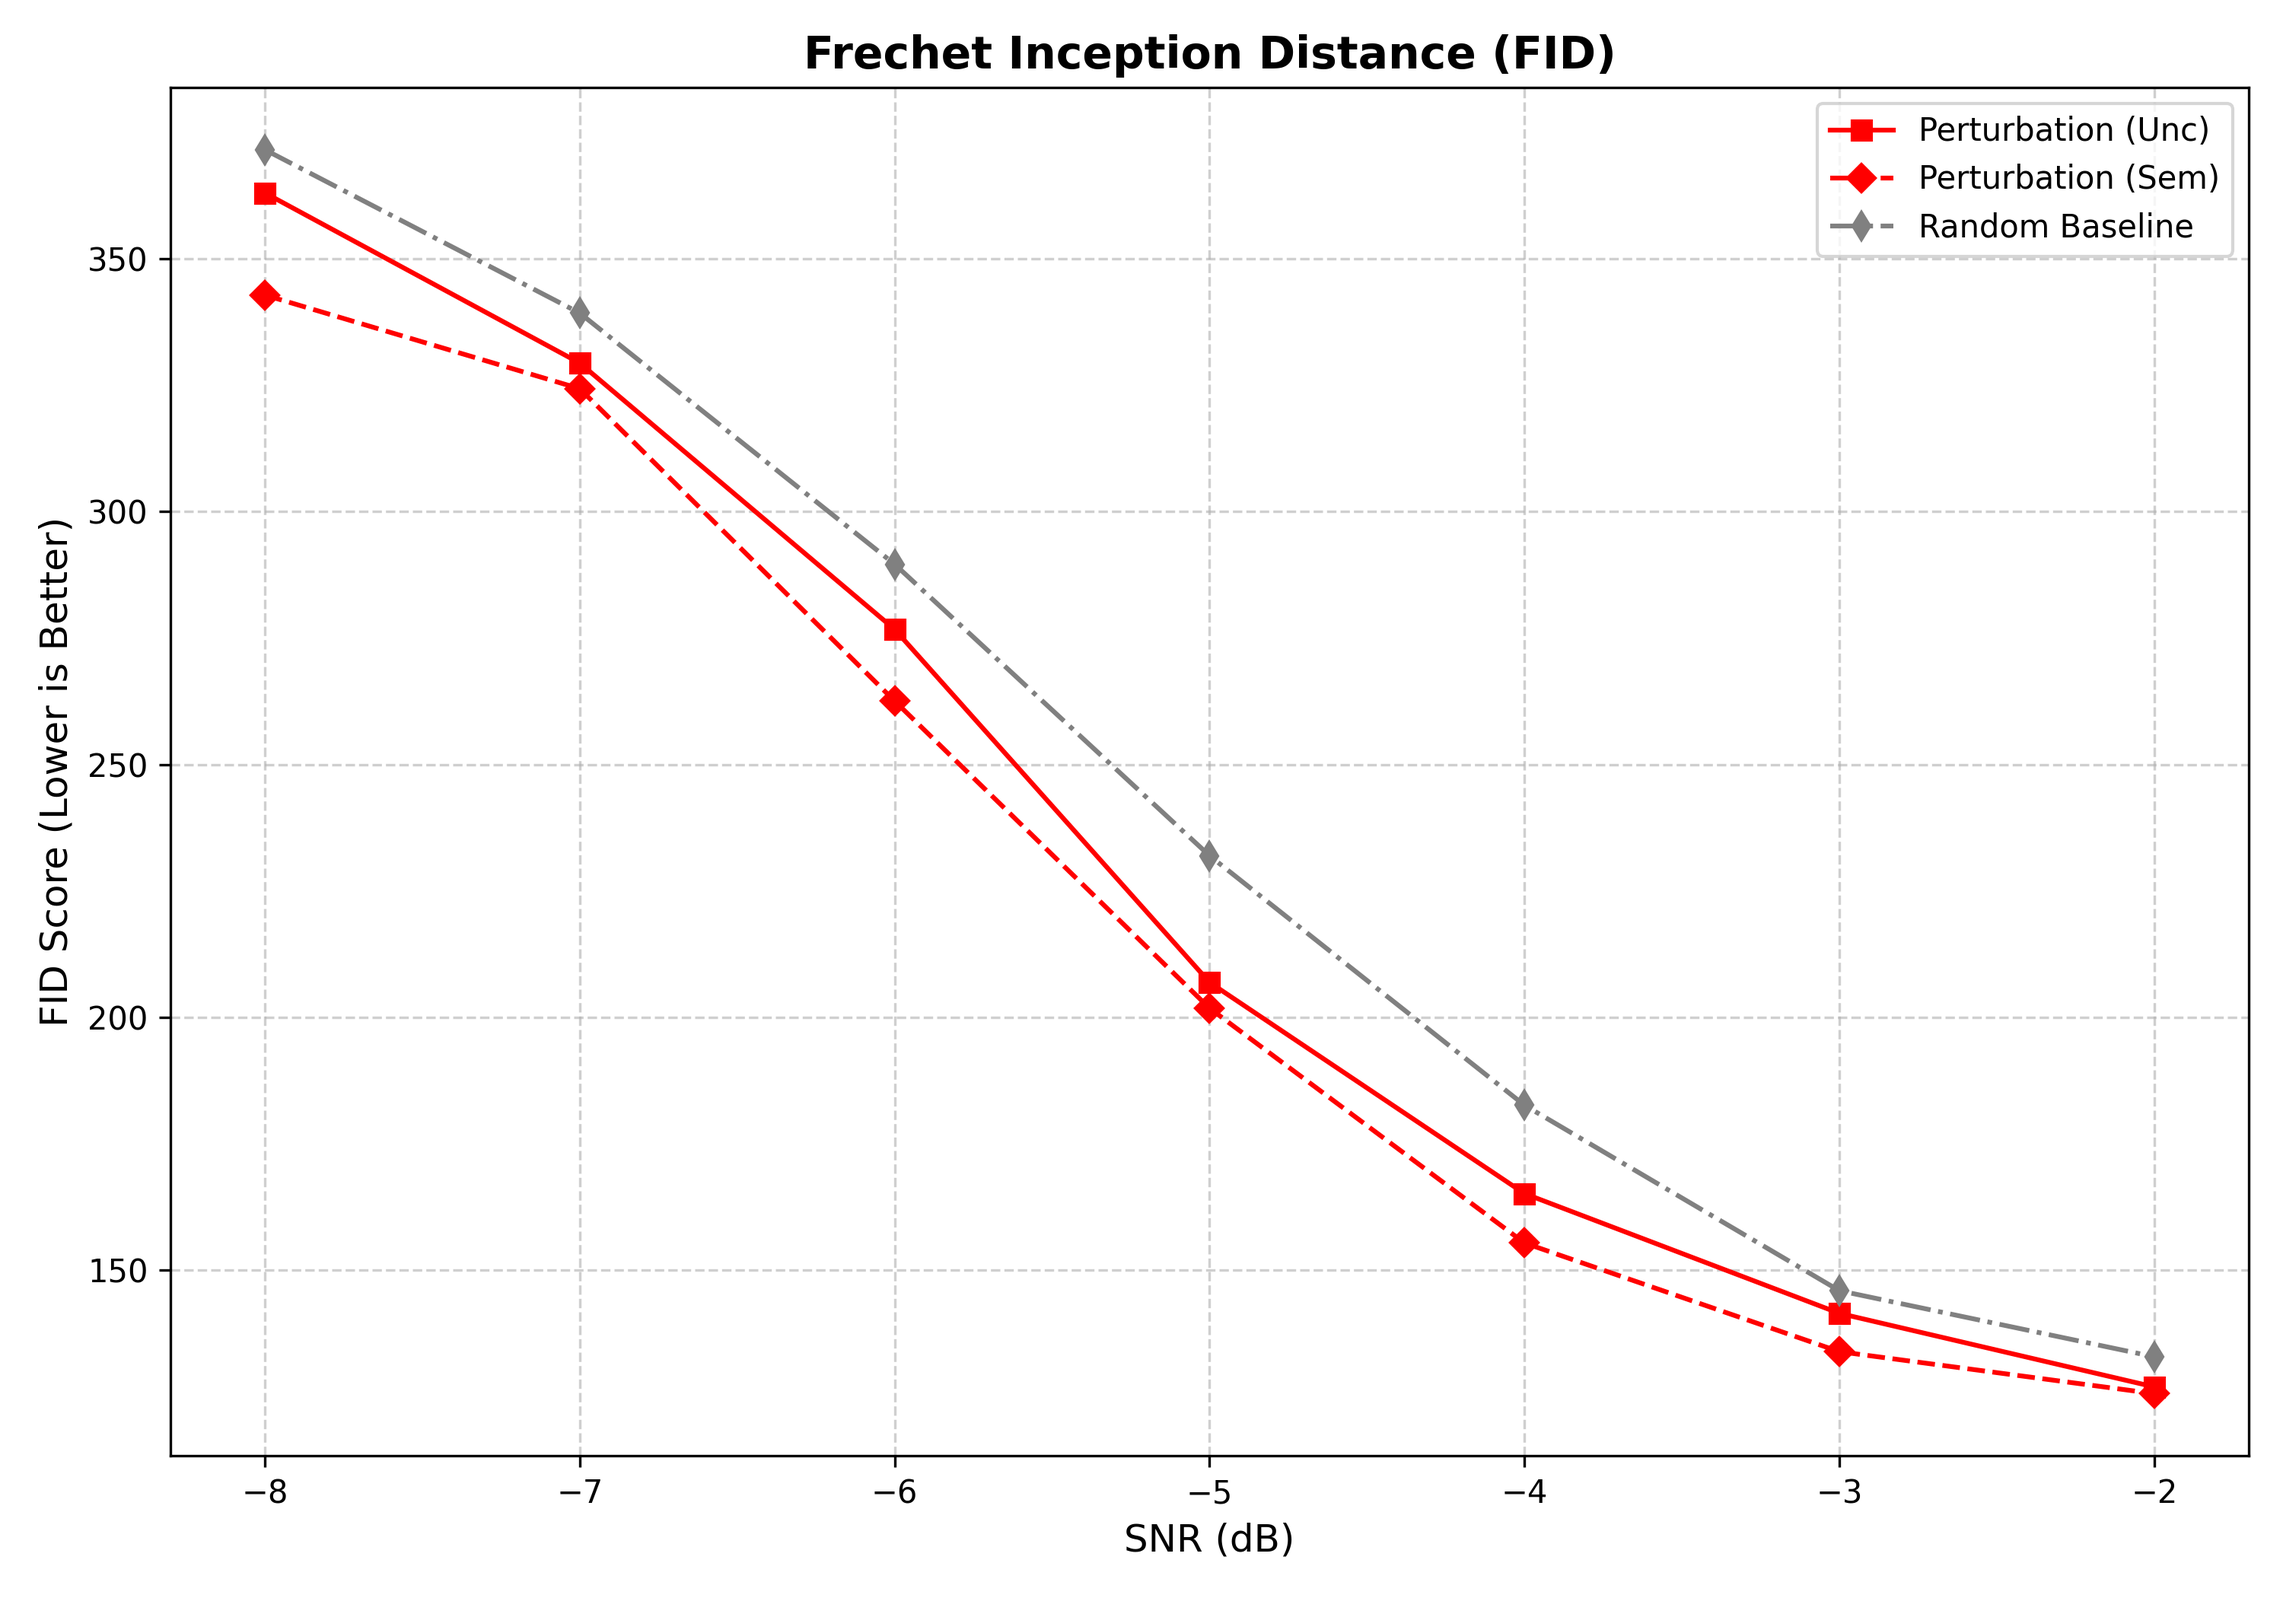
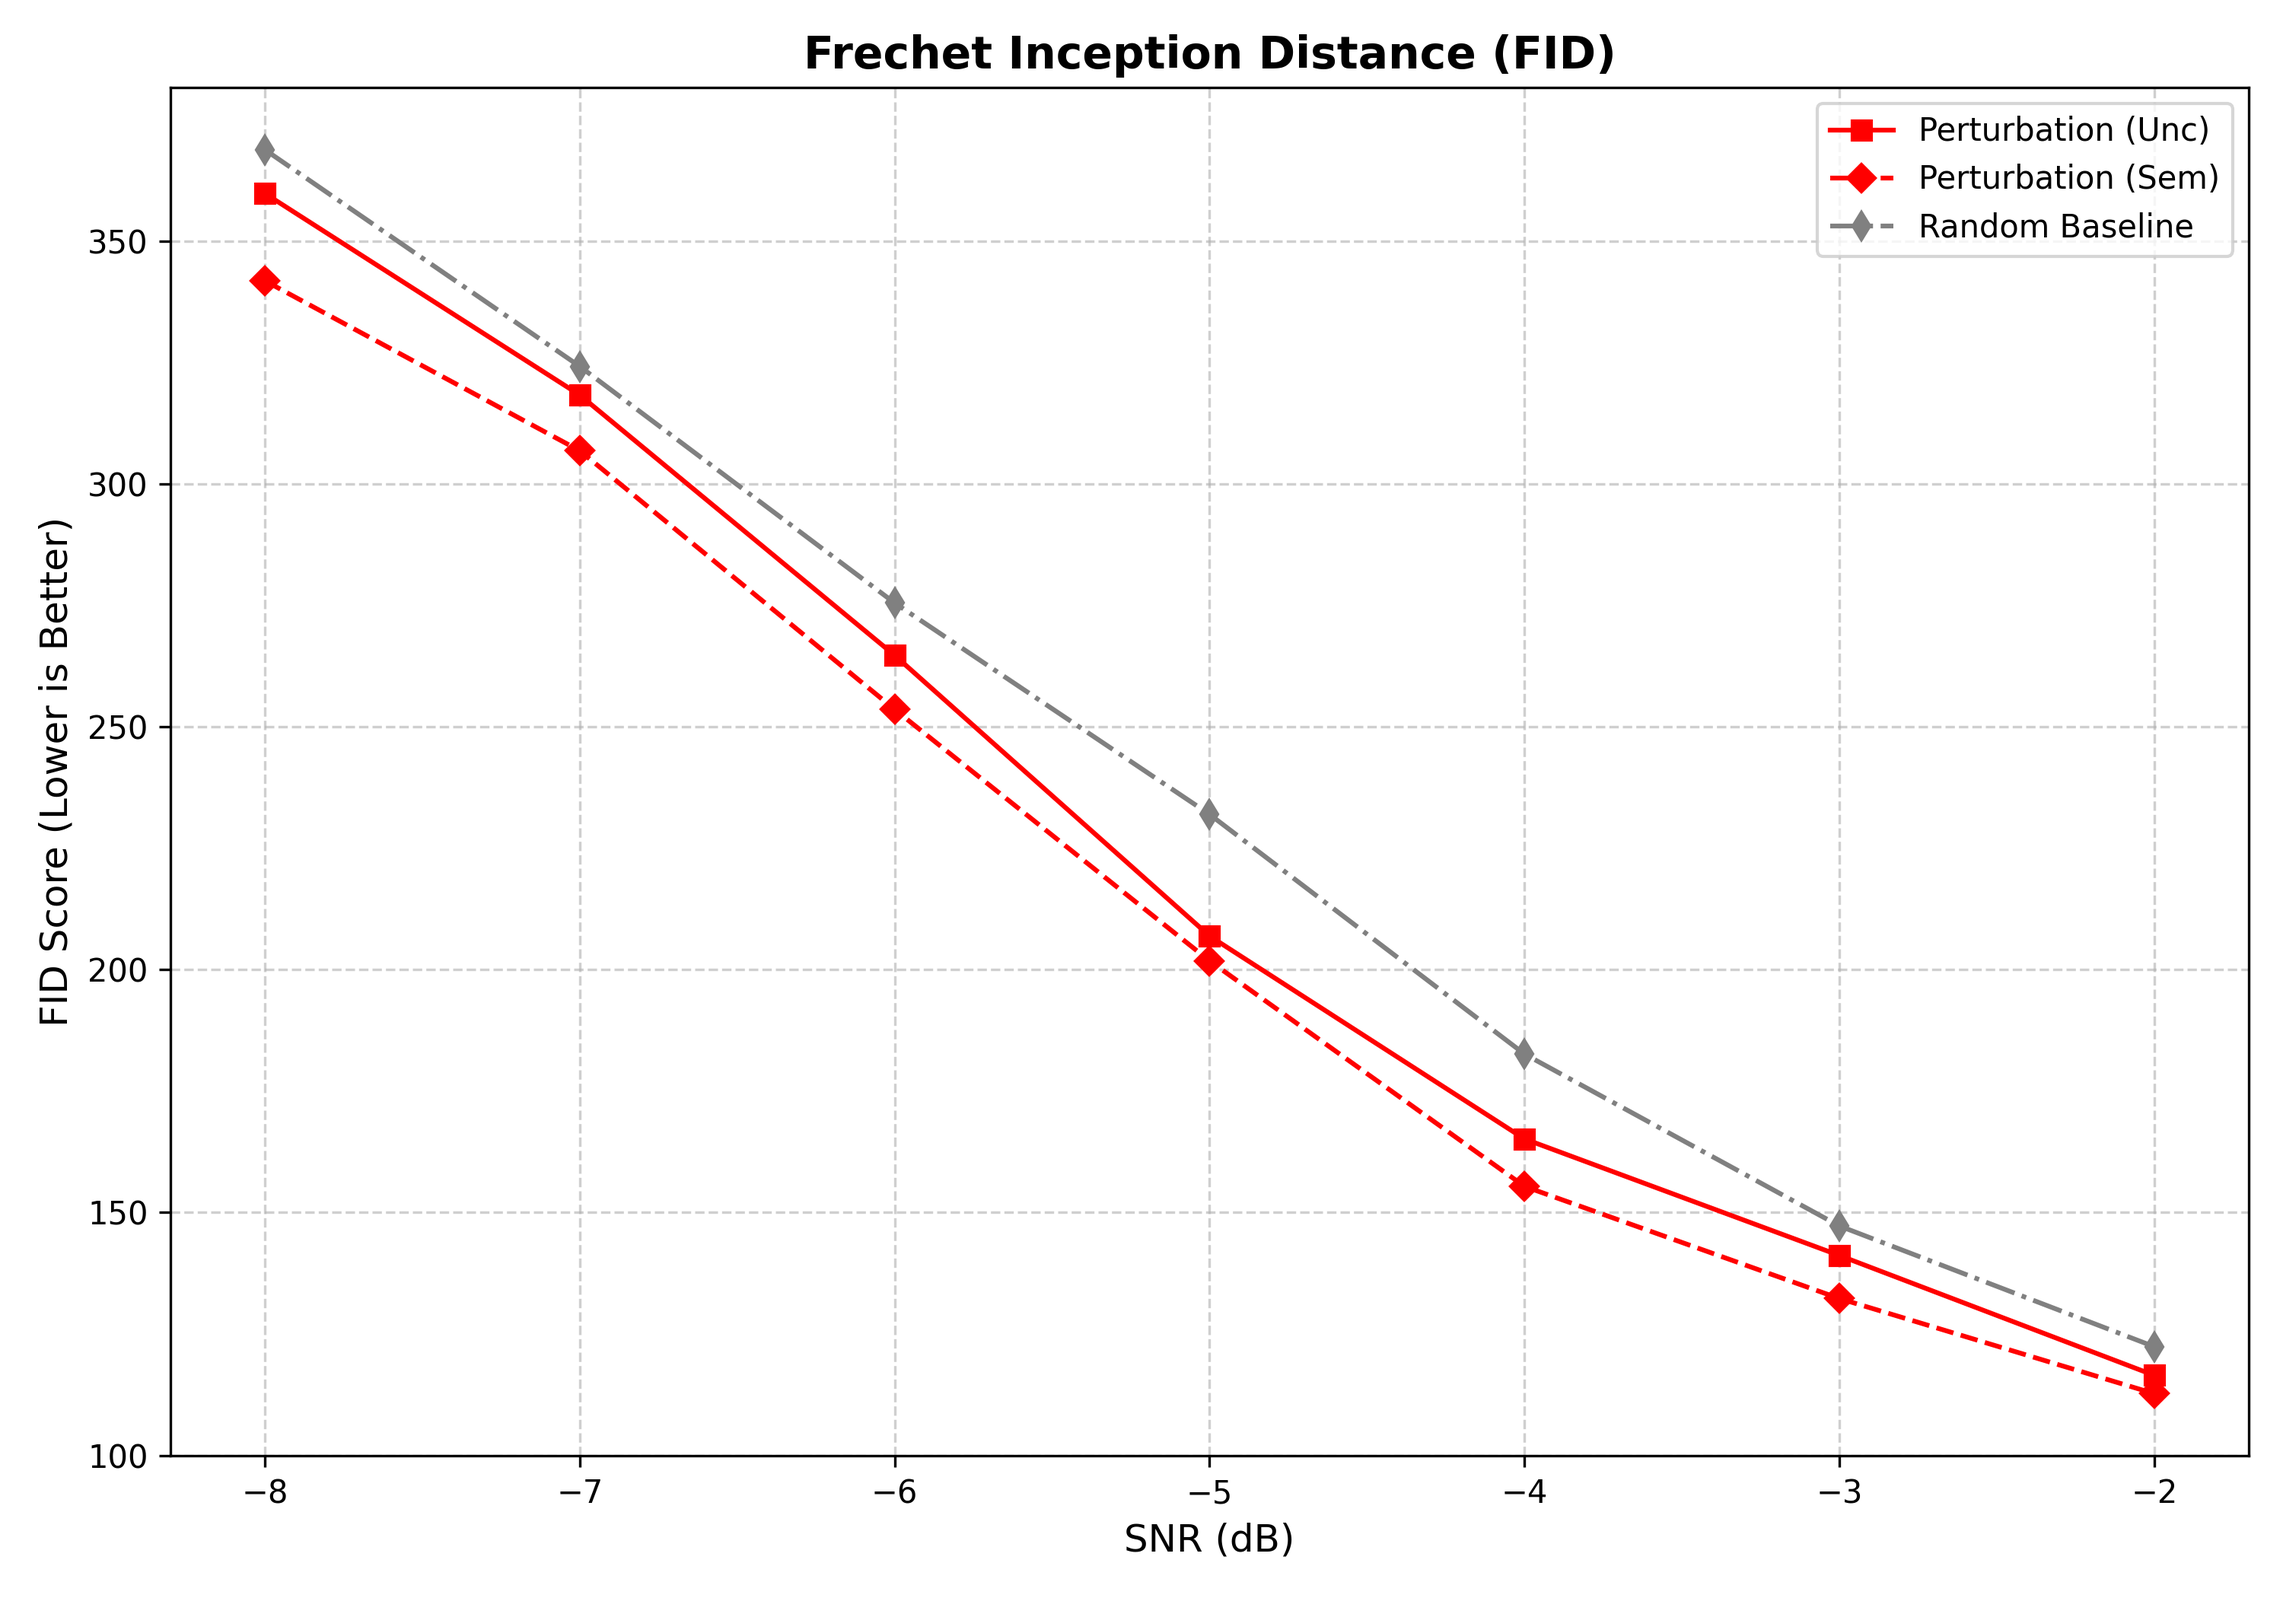
fid

diff --git a/plot_fid.py b/plot_fid.py
@@ -9,7 +9,7 @@ import matplotlib.pyplot as plt
 # ==========================================
 
 # 1. データセットとディレクトリ設定
-DATASET = "ffhq_demo"
+DATASET = "imagenet"
 BASE_DIR = "results_retrans_comparison"
 METHOD_PATH = "diffcom/djscc_2" # FID計算結果があるサブディレクトリ
 ROOT_DIR = os.path.join(BASE_DIR, DATASET, METHOD_PATH)
@@ -19,7 +19,7 @@ TARGET_FILENAME = "post_process_fid.json"
 
 # 3. プロットしたいSNRのリスト (None または [] なら見つかったもの全て表示)
 TARGET_SNRS = [-6, -4, -2, 0]
-TARGET_SNRS = [-8, -6, -7, -5, -4]
+TARGET_SNRS = [-8, -6, -7, -5, -4,-3, -2]
 
 # 4. プロットしたい再送率 (Retrans_rate) のリスト
 TARGET_RATES = [0.1]
@@ -28,8 +28,8 @@ TARGET_RATES = [0.1]
 # 指定した exp (expansion_factor) や gam (gamma) のファイルのみを抽出します。
 # None または [] (空リスト) の場合は、フィルタリングせず全て対象とします。
 
-TARGET_EXPS = [2.0]     # 例: [2.0] または None
-TARGET_GAMS = [0.3]     # 例: [0.3, 0.7] または None
+TARGET_EXPS = [5.0]     # 例: [2.0] または None
+TARGET_GAMS = [0.7]     # 例: [0.3, 0.7] または None
 
 # -----------------------------------------------------
 

diff --git a/calc_fid.py b/calc_fid.py
@@ -108,7 +108,7 @@ if __name__ == "__main__":
     
     # 1. データセット ("imagenet" or "ffhq_demo")
     DATASET = "ffhq_demo" 
-    
+    DATASET = "imagenet"
     # 2. SNR リスト
     # ここに計算したいSNRをすべて列挙します
     SNR_LABELS = ["-8","-7", "-6", "-5" ,"-4", "-3","-2"]
@@ -117,8 +117,8 @@ if __name__ == "__main__":
     RATE = 0.1
 
     # 4. HPRSパラメータ
-    EXP_FACTOR = 2.0
-    GAMMA = 0.3
+    EXP_FACTOR = 5.0
+    GAMMA = 0.7
 
     # 5. その他の固定パラメータ
     ROOT_DIR = "results_retrans_comparison"
